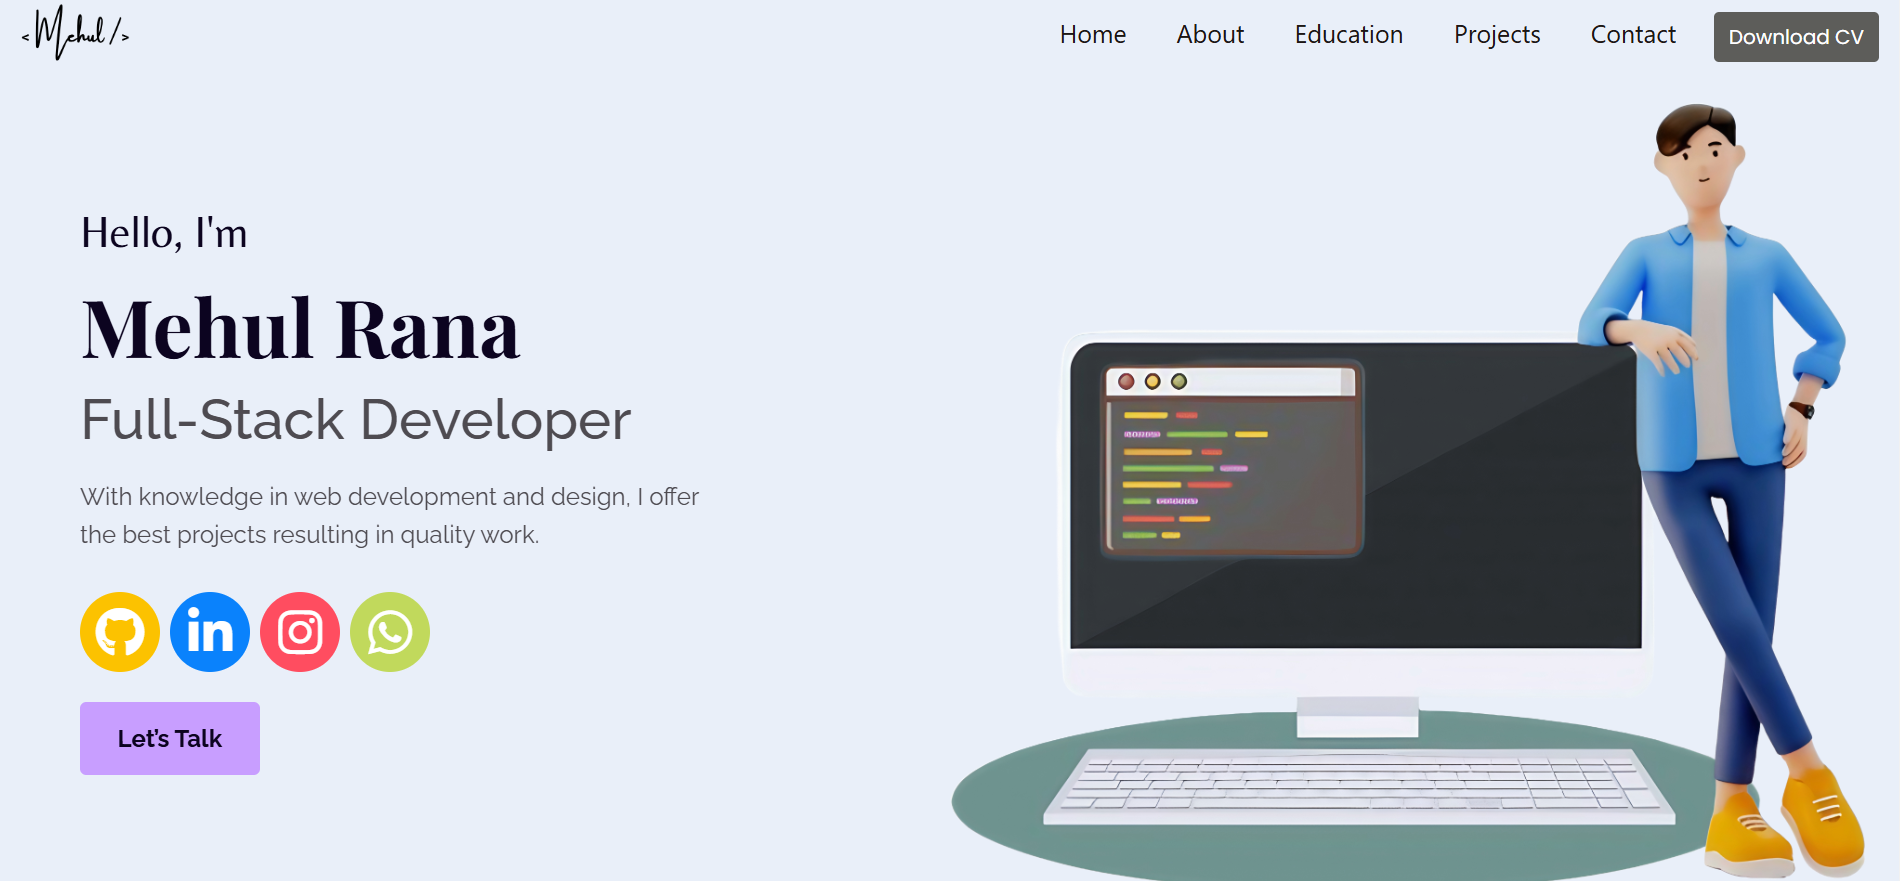
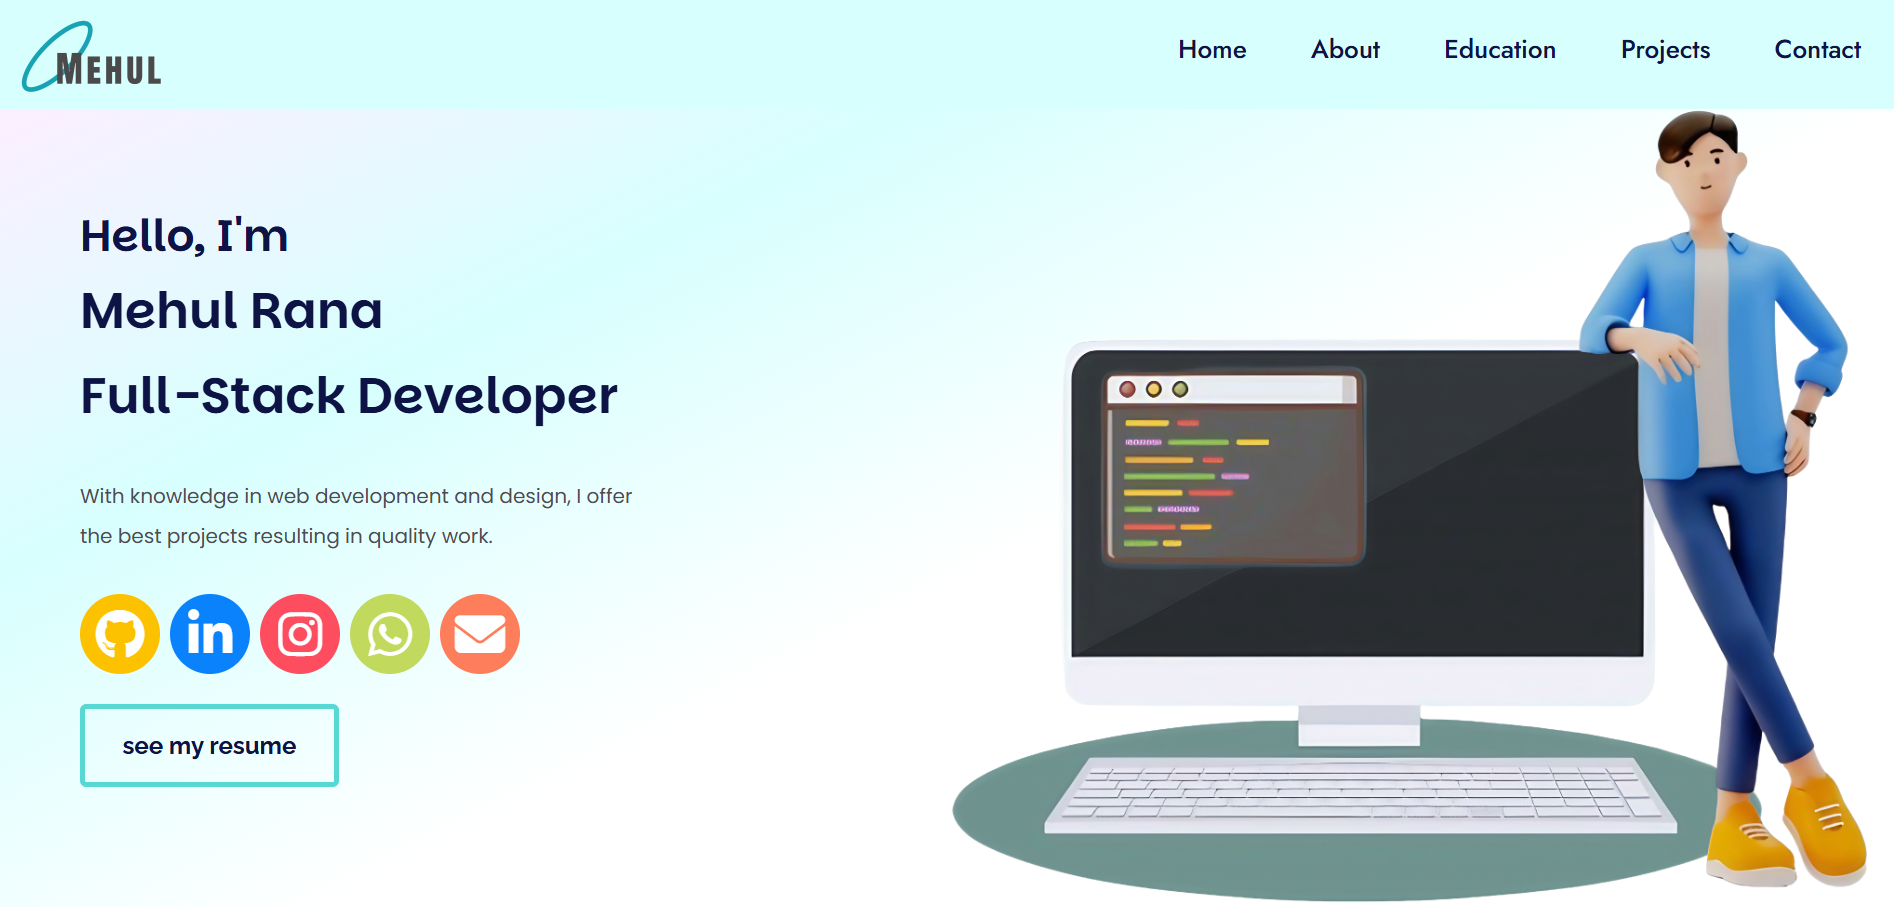
fixes

diff --git a/src/Components/pages/Projects.jsx b/src/Components/pages/Projects.jsx
@@ -68,7 +68,7 @@ const Projects = () => {
       </div>
 
       <h3 data-aos="fade-down" data-aos-duration="1000">
-        | I am skilled in using modern web development technologies to build and
+       I am skilled in using modern web development technologies to build and
         deploy responsive web applications. I focus on integrating innovative
         tools and frameworks to create user-friendly and efficient solutions.
       </h3>
